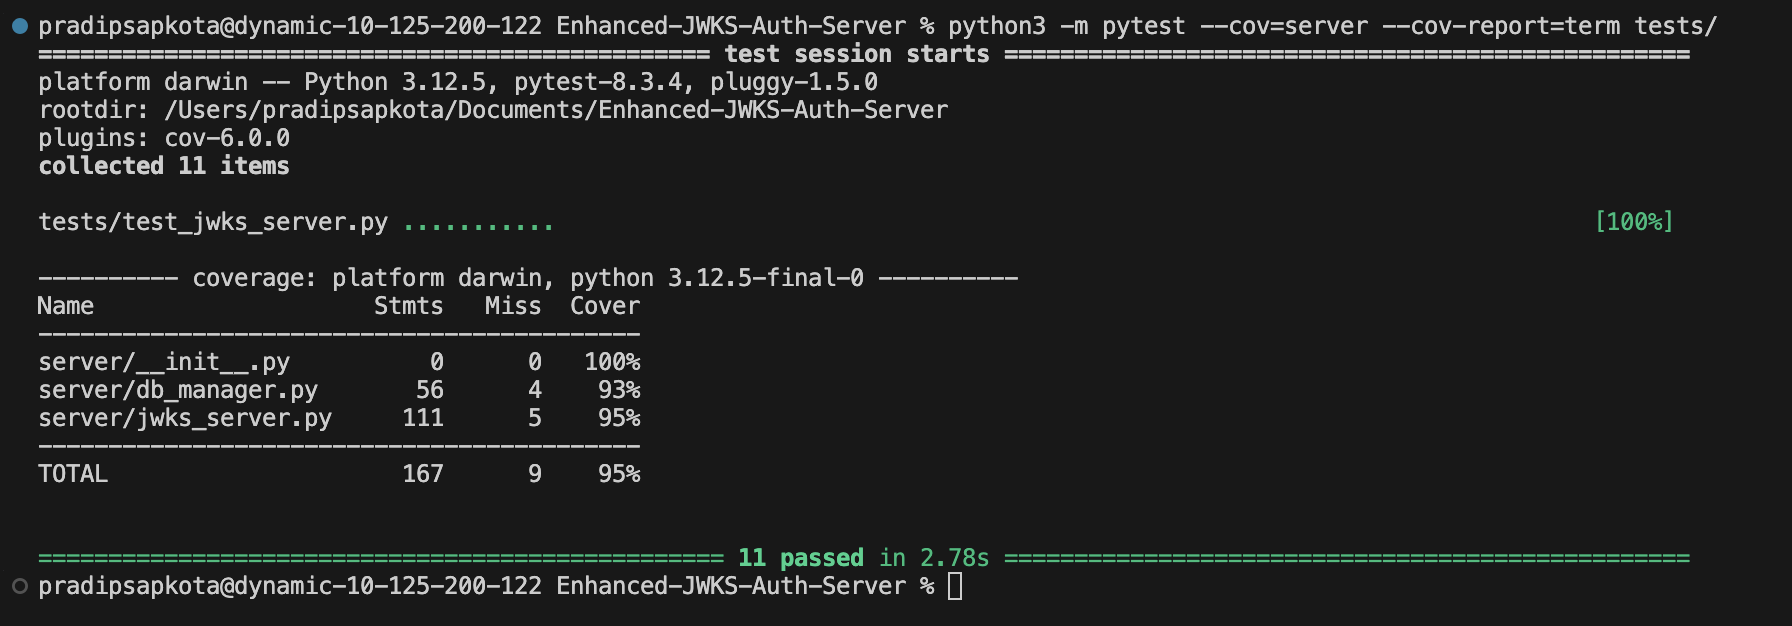
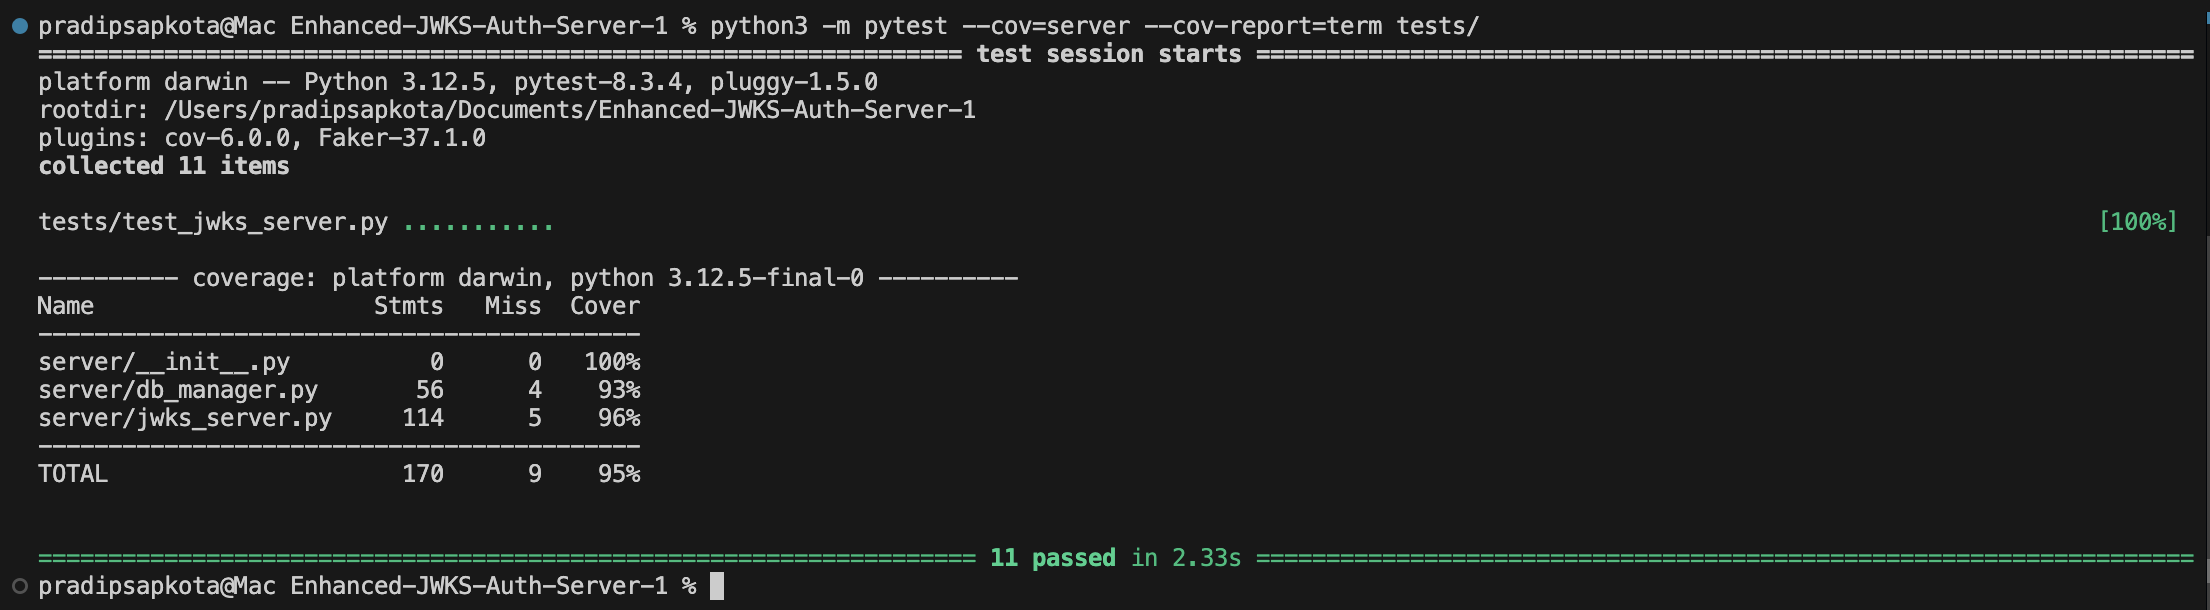
Final COmmit

diff --git a/server/jwks_server.py b/server/jwks_server.py
@@ -41,7 +41,9 @@ class TimeWindowRateLimiter:
             request_times = self.requests[ip]
 
             # Remove old timestamps outside the window
-            while request_times and (current_time - request_times[0]) > self.time_window:
+            while request_times and (
+                current_time - request_times[0]
+            ) > self.time_window:
                 request_times.popleft()
 
             if len(request_times) < self.max_requests:

diff --git a/README.md b/README.md
@@ -172,20 +172,20 @@ python -m pytest --cov=server --cov-report=term tests/
 ### Test Coverage Sample Output
 ```
 platform darwin -- Python 3.12.5, pytest-8.3.4, pluggy-1.5.0
-rootdir: /Users/pradipsapkota/Documents/Enhanced-JWKS-Auth-Server
-plugins: cov-6.0.0
+rootdir: /Users/pradipsapkota/Documents/Enhanced-JWKS-Auth-Server-1
+plugins: cov-6.0.0, Faker-37.1.0
 collected 11 items                                                                                                                                       
 
-tests/test_jwks_server.py ........... 
+tests/test_jwks_server.py ...........  
 
 ---------- coverage: platform darwin, python 3.12.5-final-0 ----------
 Name                    Stmts   Miss  Cover
 -------------------------------------------
 server/__init__.py          0      0   100%
 server/db_manager.py       56      4    93%
-server/jwks_server.py     111      5    95%
+server/jwks_server.py     114      5    96%
 -------------------------------------------
-TOTAL                     167      9    95%
+TOTAL                     170      9    95%
 ```
 
 ## Run the test client (Gradebot)
